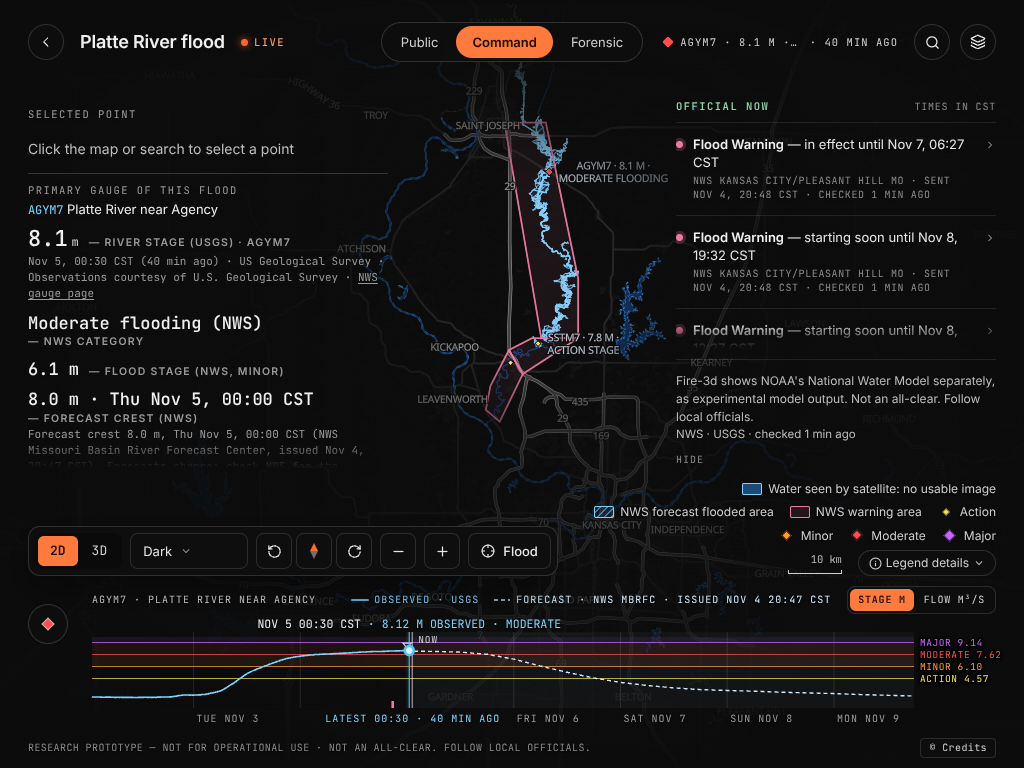
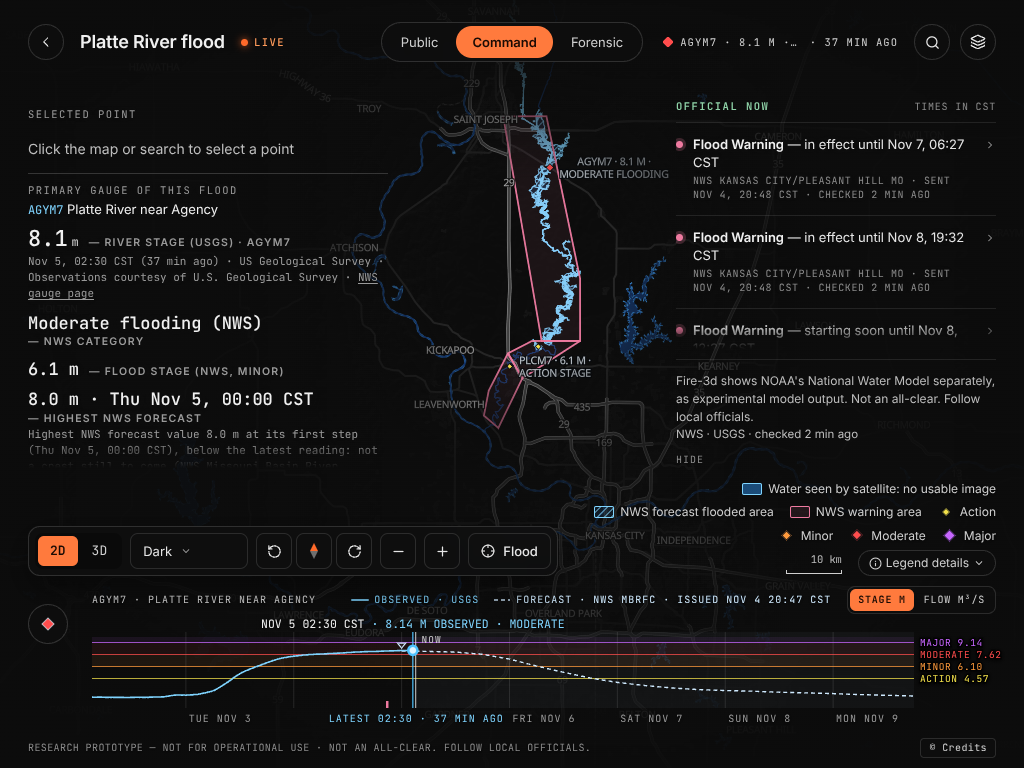
brief 5 web-flood-command: review fixes
All 15 review findings (WFC-R1..R15) fixed; the code of the earlier fix
attempt was in the snapshots 7e6b0e9 and 8e756a7. This commit finishes the
step after a usage-limit pause and a container restart:

- R13: map label points spread along the whole flood (up to 12, 5 km apart,
  28 px collision padding), the NWS category map's labels above the model's.
- R14: a nearby gauge's NWS forecast below its latest reading is labelled
  "Highest NWS forecast" without a series (forecastBelowReading), also in
  Official now's river forecast row.
- Every fix re-checked in the running app; fix screenshots retaken with the
  final code; review5 report, role report, as-built note and progress updated.

Gates: backend 1383 passed / 0 skipped; web typecheck clean, lint 55 (all
src/scene), 1780 passed / 2 skipped, build ok.

Claude-Session: https://claude.ai/code/session_016JQLLLPiy3zrdDeXcY1uZS

diff --git a/web/src/map/floodCommandLayers.test.ts b/web/src/map/floodCommandLayers.test.ts
@@ -50,22 +50,33 @@ describe('Command flood layers', () => {
     expect(CATFIM_MAP_LABEL).toMatch(/EXPERIMENTAL/)
   })
 
-  it('point labels (WFC-R13): from z8, at a point inside each of the largest polygons, a few per flood, largest first', () => {
+  it('point labels (WFC-R13): from z8, at a point inside each of the largest polygons, spread along the flood, largest first', () => {
     for (const id of [FLOOD_CMD_LAYERS.modelPointLabel, FLOOD_CMD_LAYERS.catfimPointLabel]) {
       const l = floodCommandLayers().find((x) => x.id === id) as { minzoom: number; layout: Record<string, unknown> }
       expect(l.minzoom).toBeLessThanOrEqual(8)
       expect(l.layout['symbol-placement']).toBeUndefined()
       expect(l.layout['symbol-sort-key']).toEqual(['get', 'rank'])
+      // a wide collision padding: zoomed out only a few of the points keep a label
+      expect(l.layout['text-padding']).toBeGreaterThanOrEqual(20)
     }
-    // many small fragments (a real flood's model reaches): at most 3 labels, each inside its polygon, largest first
+    // many small fragments (a real flood's model reaches), about 8.6 km apart: one label in each, largest first, so a
+    // part of the flood zoomed into keeps its own label
     const sq = (x: number, y: number, d: number) => ({ type: 'Feature', properties: {}, geometry: { type: 'Polygon', coordinates: [[[x, y], [x + d, y], [x + d, y + d], [x, y + d], [x, y]]] } })
     const fc = { type: 'FeatureCollection', features: [sq(-95, 39, 0.01), sq(-94.9, 39, 0.05), sq(-94.8, 39, 0.02), sq(-94.7, 39, 0.03), sq(-94.6, 39, 0.04), sq(-94.5, 39, 0.005)] } as never
     const pts = labelPoints(fc)
-    expect(pts.features).toHaveLength(3)
+    expect(pts.features).toHaveLength(6)
     const first = (pts.features[0].geometry as unknown as { coordinates: [number, number] }).coordinates
     expect(first[0]).toBeGreaterThan(-94.9)
     expect(first[0]).toBeLessThan(-94.85)
-    expect(pts.features.map((f) => (f.properties as { rank: number }).rank)).toEqual([0, 1, 2])
+    expect(pts.features.map((f) => (f.properties as { rank: number }).rank)).toEqual([0, 1, 2, 3, 4, 5])
+    // at most `max`, the largest kept
+    expect(labelPoints(fc, 3).features).toHaveLength(3)
+    // never two within minKm: fragments 1.7 km apart get one label
+    const near = { type: 'FeatureCollection', features: [sq(-95, 39, 0.01), sq(-94.98, 39, 0.012), sq(-94.96, 39, 0.008)] } as never
+    expect(labelPoints(near).features).toHaveLength(1)
+    // the category map's few labels sit above the model's many (later = drawn and placed first), so they win a collision
+    const ids = floodCommandLayers().map((x) => x.id)
+    expect(ids.indexOf(FLOOD_CMD_LAYERS.catfimPointLabel)).toBeGreaterThan(ids.indexOf(FLOOD_CMD_LAYERS.modelPointLabel))
     // an L-shaped polygon: the point is inside it (not at its bounding box's centre)
     const l = [[0, 0], [10, 0], [10, 1], [1, 1], [1, 10], [0, 10], [0, 0]] as [number, number][]
     const p = pointInside([l])!

diff --git a/web/src/map/floodCommandLayers.ts b/web/src/map/floodCommandLayers.ts
@@ -122,8 +122,10 @@ export function pointInside(rings: Ring[]): [number, number] | null {
 }
 
 /** Label points for a layer's polygons: a point inside each of the largest polygons (at most `max`, never two within
- *  `minKm` of each other), largest first (`rank` 0 = largest, so MapLibre keeps it when labels collide). */
-export function labelPoints(fc: FeatureCollection, max = 3, minKm = 3): FeatureCollection {
+ *  `minKm` of each other, so they spread along the whole flood), largest first (`rank` 0 = largest, so MapLibre keeps
+ *  it when labels collide). Zoomed out, the collision padding keeps a few; zoomed in, each part of the flood in view
+ *  keeps its own (review WFC-R13). */
+export function labelPoints(fc: FeatureCollection, max = 12, minKm = 5): FeatureCollection {
   const polys: { rings: Ring[]; area: number }[] = []
   for (const f of fc.features) {
     const g = f.geometry as { type?: string; coordinates?: unknown } | null
@@ -162,7 +164,8 @@ export function floodCommandLayers(): LayerSpecification[] {
     },
     paint: { 'text-color': color, 'text-halo-color': 'rgba(10,10,10,0.9)', 'text-halo-width': 1.4 },
   })
-  // a label at a point inside the largest polygons (review WFC-R13): from z8, the largest kept when labels collide
+  // a label at a point inside the largest polygons (review WFC-R13): from z8, the largest kept when labels collide;
+  // the wide collision padding leaves a few per view
   const pointLabel = (id: string, source: string, text: string, color: string) => ({
     id,
     type: 'symbol',
@@ -174,7 +177,7 @@ export function floodCommandLayers(): LayerSpecification[] {
       'text-size': 10,
       'text-letter-spacing': 0.08,
       'symbol-sort-key': ['get', 'rank'],
-      'text-padding': 4,
+      'text-padding': 28,
       'text-max-width': 30,
     },
     paint: { 'text-color': color, 'text-halo-color': 'rgba(10,10,10,0.92)', 'text-halo-width': 1.6 },
@@ -205,8 +208,9 @@ export function floodCommandLayers(): LayerSpecification[] {
       paint: { 'line-color': FLOOD_MODEL, 'line-opacity': 0.9, 'line-width': ['interpolate', ['linear'], ['zoom'], 8, 1.6, 14, 3.2], 'line-dasharray': [0.1, 2] },
     },
     label(FLOOD_CMD_LAYERS.highFlowLabel, FLOOD_CMD_SOURCES.highFlow, MODEL_MAP_LABEL, FLOOD_MODEL),
-    pointLabel(FLOOD_CMD_LAYERS.catfimPointLabel, FLOOD_CMD_SOURCES.catfimPoints, CATFIM_MAP_LABEL, FLOOD_TOKENS['m-flood-edge']),
+    // the category map's few labels above the model's many, so they win a collision (it covers a small area)
     pointLabel(FLOOD_CMD_LAYERS.modelPointLabel, FLOOD_CMD_SOURCES.modelPoints, MODEL_MAP_LABEL, FLOOD_MODEL),
+    pointLabel(FLOOD_CMD_LAYERS.catfimPointLabel, FLOOD_CMD_SOURCES.catfimPoints, CATFIM_MAP_LABEL, FLOOD_TOKENS['m-flood-edge']),
   ] as unknown as LayerSpecification[]
 }
 

diff --git a/web/src/location/floodCheck.ts b/web/src/location/floodCheck.ts
@@ -486,6 +486,18 @@ export function categoryWords(g: Pick<RiverGauge, 'observed'>, tf: TimeFmt, nowM
 /** The forecast row of a gauge: the crest (CREST_LINE) or the forecast high still rising at its end (C7); none when
  *  the gauge is not a forecast point (NO_RFC_FORECAST); a forecast point without its forecast here says where to see
  *  it (never NO_RFC_FORECAST then; bundle-api deviation 4). */
+/** NWS's highest forecast value is below the gauge's latest reading, so it is not a crest still to come (review
+ *  WFC-R14). Decided from the answer alone (a nearby gauge's bbox answer has no series to show the first step); false
+ *  when the forecast is still rising at its end (C7) or the units differ. */
+export function forecastBelowReading(g: Pick<RiverGauge, 'forecast' | 'observed' | 'thresholds'>): boolean {
+  const f = g.forecast
+  const v = g.observed?.value
+  if (!f || f.crest_at_end || f.max_value == null || v == null || !Number.isFinite(f.max_value) || !Number.isFinite(v)) return false
+  const fu = g.thresholds?.unit ?? g.observed.unit
+  if (g.observed.unit && fu && g.observed.unit.toLowerCase() !== fu.toLowerCase()) return false
+  return f.max_value < v
+}
+
 export function forecastRow(g: RiverGauge, tf: TimeFmt, units: Units, nowMs: number, past = false, falling = false): { label: string; value: string; sub: string } {
   // river forecasts are not kept for past dates (a past flood)
   if (past) return { label: FLOOD_COMMAND.crestLabel, value: FLOOD_PUBLIC.pastDates, sub: PAST_NO_FORECAST }
@@ -500,6 +512,8 @@ export function forecastRow(g: RiverGauge, tf: TimeFmt, units: Units, nowMs: num
     if (f.crest_at_end) return { label: FORECAST_HIGH_LABEL, value, sub: fillCopy(FORECAST_HIGH_LINE, slots) }
     // a falling forecast: its highest value is its first step, below the latest reading (review WFC-R14)
     if (falling) return { label: FLOOD_COMMAND.highestForecastLabel, value: `${value} · ${when}`, sub: fillCopy(FLOOD_COMMAND.highestForecastSub, slots) }
+    // without the series (a nearby gauge's answer): NWS's highest value below the latest reading is no crest to come
+    if (forecastBelowReading(g)) return { label: FLOOD_COMMAND.highestForecastLabel, value: `${value} · ${when}`, sub: fillCopy(FLOOD_COMMAND.highestBelowSub, slots) }
     return { label: FLOOD_COMMAND.crestLabel, value: `${value} · ${when}`, sub: fillCopy(CREST_LINE, slots) }
   }
   if (g.is_forecast_point) return { label: FLOOD_COMMAND.crestLabel, value: '—', sub: FLOOD_COMMAND.forecastInChart }

diff --git a/web/src/location/FloodReadout.test.ts b/web/src/location/FloodReadout.test.ts
@@ -29,7 +29,7 @@ import {
 } from '../ui/shell/floodCopy'
 import catfimMap from '../api/__fixtures__/floods/maps-catfim.json'
 import nfhlMap from '../api/__fixtures__/floods/maps-nfhl.json'
-import { areaFigures, catfimLine, categoryWords, fmtArea, forecastRow, lineTag, nearestFloodGauge, onFloodRiver, pointGaugesUrl, utmZoneOf } from './floodCheck'
+import { areaFigures, catfimLine, categoryWords, fmtArea, forecastBelowReading, forecastRow, lineTag, nearestFloodGauge, onFloodRiver, pointGaugesUrl, utmZoneOf } from './floodCheck'
 import { FloodReadout } from './FloodReadout'
 import { pointGaugeCache } from '../ui/timeline/hydrographData'
 
@@ -143,6 +143,16 @@ describe('gauge words', () => {
     expect(falling.label).toBe(FLOOD_COMMAND.highestForecastLabel)
     expect(falling.sub).toMatch(/^Highest NWS forecast value 18\.0 ft at its first step \(Thu Nov 5, 17:00 MST\), below the latest reading: not a crest still to come/)
     expect(floodWordingProblems(falling.sub)).toEqual([])
+    // without a series (a nearby gauge's bbox answer): NWS's highest value below the latest reading is no crest either
+    const g0 = gaugesOf()[0]
+    const below = { ...g0, series: null, observed: { ...g0.observed, value: (g0.forecast?.max_value ?? 0) + 1 } }
+    expect(forecastBelowReading(below)).toBe(true)
+    const belowRow = forecastRow(below, TF, 'us', FIXTURE_NOW_MS)
+    expect(belowRow.label).toBe(FLOOD_COMMAND.highestForecastLabel)
+    expect(belowRow.sub).toMatch(/^Highest NWS forecast value 18\.0 ft \(Thu Nov 5, 17:00 MST\), below the latest reading: not a crest still to come/)
+    expect(floodWordingProblems(belowRow.sub)).toEqual([])
+    expect(forecastBelowReading(g0)).toBe(false)
+    expect(forecastBelowReading(GAUGE_RISING_AT_END())).toBe(false)
     const none = forecastRow(gaugesOf()[2], TF, 'us', FIXTURE_NOW_MS)
     expect(none.value).toBe(NO_RFC_FORECAST)
     // a forecast point whose forecast is not in this answer: never "No NWS river forecast" (bundle-api deviation 4)

diff --git a/web/src/ui/feed/FloodOfficialNow.tsx b/web/src/ui/feed/FloodOfficialNow.tsx
@@ -24,7 +24,7 @@ import '../../styles/view-flood-public.css'
 import { ALERTS_UNAVAILABLE, fillCopy, FLOOD_COMMAND, FLOOD_PUBLIC, MODEL_SEPARATE, NO_PRODUCT, NO_RFC_FORECAST, PAST_NO_FORECAST } from '../shell/floodCopy'
 import { fmtStage } from '../public/floodOverviewText'
 import { polygonsOf } from '../public/floodView'
-import { forecastRow } from '../../location/floodCheck'
+import { forecastBelowReading, forecastRow } from '../../location/floodCheck'
 import { useChartGauge } from '../timeline/hydrographData'
 import { forecastFalling } from '../timeline/hydrographModel'
 import { FloodEvacRows } from './FloodEvacRows'
@@ -115,7 +115,13 @@ export function FloodOfficialNow({ variant = 'command' }: { variant?: 'command' 
     // the whole sentence (CREST_LINE, or FORECAST_HIGH_LINE when the highest value is the last step; C7)
     const row = forecastRow(g, gtf, 'us', nowMs, false, falling)
     forecast = {
-      verdict: f.crest_at_end ? `high ${v} at the end of the forecast (${when}); still forecast to rise` : falling ? fillCopy(FLOOD_COMMAND.highestForecastVerdict, { value: v, when }) : `crest ${v} ${when}`,
+      verdict: f.crest_at_end
+        ? `high ${v} at the end of the forecast (${when}); still forecast to rise`
+        : falling
+          ? fillCopy(FLOOD_COMMAND.highestForecastVerdict, { value: v, when })
+          : forecastBelowReading(g)
+            ? fillCopy(FLOOD_COMMAND.highestBelowVerdict, { value: v, when })
+            : `crest ${v} ${when}`,
       meta: `NWS ${rfcName(f)}${issued ? `, issued ${issued}` : ''}`,
       line: row.sub || null,
     }

diff --git a/web/src/ui/shell/floodCopy.ts b/web/src/ui/shell/floodCopy.ts
@@ -338,6 +338,10 @@ export const FLOOD_COMMAND = {
   highestForecastSub:
     'Highest NWS forecast value {value} {unit} at its first step ({day time zone}), below the latest reading: not a crest still to come (NWS {RFC name}, issued {time}). Forecasts change; check NWS for the newest.',
   highestForecastVerdict: 'highest {value} at its first step ({when}), below the latest reading',
+  // the same without the series (a nearby gauge's answer): NWS's highest value is below the latest reading (WFC-R14)
+  highestBelowSub:
+    'Highest NWS forecast value {value} {unit} ({day time zone}), below the latest reading: not a crest still to come (NWS {RFC name}, issued {time}). Forecasts change; check NWS for the newest.',
+  highestBelowVerdict: 'highest {value} ({when}), below the latest reading',
   forecastInChart: 'NWS forecasts this gauge: choose it in the river-level chart below for its forecast.',
   gaugesChecking: 'Checking river gauges…',
   // event rows

diff --git a/docs/redesign/contract5/web-flood-command.md b/docs/redesign/contract5/web-flood-command.md
@@ -181,12 +181,19 @@ All additive; no store shape changed (`state/flood.ts` untouched by the fixes).
   units; `.cfv-gauge-main` shortens, `.cfv-gauge-age` never does. The Official now column gets `has-more` (Command fire's
   fade) from a local `useMoreBelow`. `FloodEvacRows` says the not-an-all-clear caveat once.
 - **Map labels (R13).** `floodCommandLayers.ts`: sources `fx-flood-catfim-pts`, `fx-flood-model-pts`, layers
-  `fx-flood-catfim-pt-label`, `fx-flood-model-pt-label` (from z8, one line, `symbol-sort-key` rank), `labelPoints(fc,
-  max = 3, minKm = 3)`, `pointInside(rings)`; placed above the basemap's place names, under the gauges.
+  `fx-flood-model-pt-label`, then `fx-flood-catfim-pt-label` above it (the category map's few labels win a collision
+  with the model's many), from z8, one line, `symbol-sort-key` rank, `text-padding` 28 (zoomed out a few remain, zoomed
+  in each part of the flood in view keeps its own); `labelPoints(fc, max = 12, minKm = 5)` spreads the points along the
+  whole flood; `pointInside(rings)`; placed above the basemap's place names, under the gauges.
+- **Forecast below the reading (R14, nearby gauges).** `floodCheck.ts forecastBelowReading(g)`: NWS's highest forecast
+  value below the gauge's latest reading (same units, not `crest_at_end`) decided from the answer alone (a bbox answer
+  has no series); `forecastRow` then says `FLOOD_COMMAND.highestForecastLabel` with the new
+  `FLOOD_COMMAND.highestBelowSub` (no "first step" claim), and Official now's river forecast row
+  `FLOOD_COMMAND.highestBelowVerdict` until the chart's series arrives.
 
 ### For the next roles (review fixes)
 
-- **web-flood-forensic:** switch `scene/flood/floodGeo.ts warningsAt` (after its version step) to
+- **web-flood-forensic (done by its fixer, in the tree since 8e756a7):** switch `scene/flood/floodGeo.ts warningsAt` (after its version step) to
   `productsShown(latest, cursorMs, nowMs)` from `ui/timeline/hydrographModel.ts` (one call for every handle position),
   and `ui/forensic-flood/FloodDock.tsx` ProductsColumn's note to `futureProductsNote(shown)`, so the drapes and the
   column follow the map and the readout (R1). The dock hydrograph's handle words and future note now sit in the flow;
@@ -194,3 +201,8 @@ All additive; no store shape changed (`state/flood.ts` untouched by the fixes).
 - **integration:** CONTRACT §16.12 deviation above (`productsShown`); §16.14/§5 new web strings (listed above);
   credits may move into `lib/dataCredits.ts`; `official/floodModel.ts productsDrawn` is now used only by
   `official/floodHooks.ts` (zone outlines to ask).
+- **integration (new web strings of this step, for §16.14 / §5):** `FLOOD_COMMAND.highestBelowSub`,
+  `FLOOD_COMMAND.highestBelowVerdict` (with `highestForecastLabel`, `highestForecastSub`, `highestForecastVerdict`,
+  `HYDRO.highestFalling`, `HYDRO.highestFallingTip`, `HYDRO.flowStageOnly`, `INSIDE_WARNING_UPCOMING`,
+  `CURSOR_FUTURE_ISSUED`, `NOTHING_COVERS_OFFICIAL` and the `FLOOD_COMMAND` chip and CatFIM state strings above). A plan
+  gap next to C7: a forecast whose highest value is below the latest reading is not a crest still to come.

diff --git a/docs/redesign/progress/brief5-web-flood-command.md b/docs/redesign/progress/brief5-web-flood-command.md
@@ -44,3 +44,16 @@ Ports: API 8755, Vite 5215 (started by the fixer; stop them at the end).
   (`extraLayerState`). R10: keyboard GaugeList. R11: `forecastLabelShort`. R12: `has-more` fade on the column.
 - R13: point labels (`labelPoints`, `pointInside`). R14: `crest.falling` ("HIGHEST NWS FORECAST …").
 - Status: code + unit tests done; next: browser checks, screenshots, gates, reports.
+- 2026-11-05 ~08:52 UTC: resumed after a usage-limit pause and a container restart (the fixer's code, tests,
+  screenshots and draft reports were in the snapshots 7e6b0e9 and 8e756a7; the working tree was clean). Re-ran the
+  targeted tests (171 passed) and the backend suite (1383 passed, 0 skipped).
+- Re-checked in the app (API 8755 real, then the fixture server on 8755 for the past demo; Vite 5215): R1 on the live
+  Platte flood at sel 39.38,-94.75 (the then still-to-start warning), R2 far point, R3 slim and dock, R4 credits, R5
+  Devils Lake flow, R6/R12/R15 at 1024 metric, R7 Salem, R10 keyboard probe, R11 dock key. Retook every fix-* shot
+  (the earlier ones predated the last code) plus model-on and past; viewed each.
+- Finished two fixes the re-check showed incomplete: R13 (3 label points left a zoomed-in reach unlabelled and the
+  model's labels hid the category map's: 12 points 5 km apart, 28 px collision padding, category map above model) and
+  R14 (a nearby gauge's forecast below its reading had no series: `forecastBelowReading`, `highestBelowSub`,
+  `highestBelowVerdict`). Tests updated deliberately (floodCommandLayers.test.ts, FloodReadout.test.ts).
+- Gates ~09:35 UTC: backend 1383 passed / 0 skipped; web typecheck clean, lint 55 (all src/scene), 1780 passed /
+  2 skipped (pre-existing fire tests), build ok. Servers on 8755 / 5215 stopped. Reports and as-built note updated.
